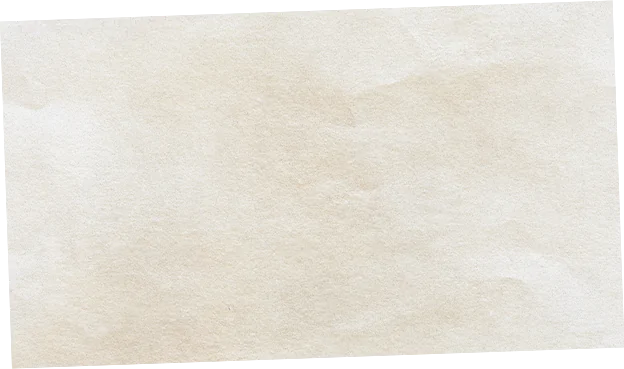
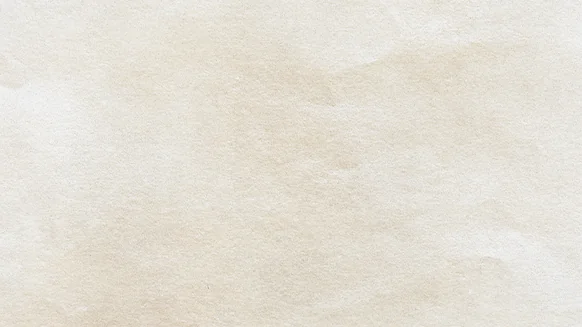
fix: the paper fills its whole sheet, without pale strips along the edges
The original's paper texture is a slightly tilted sheet; its see-through
corners showed as cream wedges at the edges of every page and dialog.
The asset converter now keeps only the paper's fully opaque inside for
textures stretched over whole panels.

diff --git a/tools/converter/src/assets.ts b/tools/converter/src/assets.ts
@@ -52,6 +52,11 @@ const APP_ICON_SIZES = [72, 96, 128, 144, 152, 180, 192, 384, 512];
 
 /** UI art folders that are not used (animation frames, Unity-specific widgets). */
 const SKIP_UI = /^(ScreenTransitions|CollapseAssets|SettingPanel|FakeLight)\//;
+/**
+ * Textures the app stretches over whole panels. The paper is a slightly tilted sheet: its
+ * see-through corners would show as pale wedges at the panel's edges, so only its inside is kept.
+ */
+const FILL_UI = /^PopupPanels\/WeatheredPaper\.png$/;
 
 function slug(path: string): string {
   return path
@@ -75,17 +80,26 @@ function convert(input: string, output: string, args: string[]): void {
 
 class MissingSource extends Error {}
 
-/**
- * Bounding box of the non-transparent pixels. Unity textures are often padded to a power of
- * two with transparent space (e.g. a 2048×2048 file whose picture fills the lower-left part).
- */
-function opaqueBounds(input: string): { x: number; y: number; w: number; h: number } | undefined {
+/** The image's pixels as RGBA, or undefined if ffmpeg can't read it. */
+function rgba(input: string): { px: Buffer; width: number; height: number } | undefined {
   const probe = spawnSync('ffprobe', ['-v', 'error', '-select_streams', 'v:0', '-show_entries', 'stream=width,height', '-of', 'csv=p=0', input], { encoding: 'utf8' });
   const [width, height] = probe.stdout.trim().split(',').map(Number);
   if (!width || !height) return undefined;
   const raw = spawnSync('ffmpeg', ['-v', 'error', '-i', input, '-f', 'rawvideo', '-pix_fmt', 'rgba', '-'], { maxBuffer: width * height * 4 + 1024 });
   const px = raw.stdout as Buffer;
-  if (px.length < width * height * 4) return undefined;
+  return px.length < width * height * 4 ? undefined : { px, width, height };
+}
+
+type Box = { x: number; y: number; w: number; h: number };
+
+/**
+ * Bounding box of the non-transparent pixels. Unity textures are often padded to a power of
+ * two with transparent space (e.g. a 2048×2048 file whose picture fills the lower-left part).
+ */
+function opaqueBounds(input: string): Box | undefined {
+  const img = rgba(input);
+  if (!img) return undefined;
+  const { px, width, height } = img;
   let x0 = width, y0 = height, x1 = -1, y1 = -1;
   for (let y = 0; y < height; y++) {
     for (let x = 0; x < width; x++) {
@@ -101,9 +115,33 @@ function opaqueBounds(input: string): { x: number; y: number; w: number; h: numb
   return { x: x0, y: y0, w: x1 - x0 + 1, h: y1 - y0 + 1 };
 }
 
-const image = (input: string, output: string) => {
+/**
+ * A rectangle with no see-through pixels: starting from the picture's bounds, the edges move
+ * inwards until each is fully opaque.
+ */
+function opaqueInterior(input: string): Box | undefined {
+  const img = rgba(input);
+  if (!img) return undefined;
+  const { px, width } = img;
+  const solid = (x: number, y: number) => px[(y * width + x) * 4 + 3]! >= 250;
+  const bounds = opaqueBounds(input) ?? { x: 0, y: 0, w: width, h: img.height };
+  let x0 = bounds.x, y0 = bounds.y, x1 = bounds.x + bounds.w - 1, y1 = bounds.y + bounds.h - 1;
+  while (x0 < x1 && y0 < y1) {
+    const row = (y: number) => { for (let x = x0; x <= x1; x++) if (!solid(x, y)) return false; return true; };
+    const col = (x: number) => { for (let y = y0; y <= y1; y++) if (!solid(x, y)) return false; return true; };
+    const [top, bottom, left, right] = [row(y0), row(y1), col(x0), col(x1)];
+    if (top && bottom && left && right) return { x: x0, y: y0, w: x1 - x0 + 1, h: y1 - y0 + 1 };
+    if (!top) y0++;
+    if (!bottom) y1--;
+    if (!left) x0++;
+    if (!right) x1--;
+  }
+  return undefined;
+}
+
+const image = (input: string, output: string, fill = false) => {
   if (existsSync(output) && existsSync(input) && statSync(output).mtimeMs >= statSync(input).mtimeMs) return;
-  const crop = existsSync(input) ? opaqueBounds(input) : undefined;
+  const crop = existsSync(input) ? (fill ? opaqueInterior : opaqueBounds)(input) : undefined;
   convert(input, output, [...(crop ? ['-vf', `crop=${crop.w}:${crop.h}:${crop.x}:${crop.y}`] : []), '-c:v', 'libwebp', '-quality', '85', '-compression_level', '6']);
 };
 /** Music and effects: VBR stereo. Speech: 48 kbit/s mono is plenty and a third of the size. */
@@ -152,7 +190,7 @@ export function extractAssets(assets: string, out: string, voiceOver: ScenarioEx
     const key = slug(f);
     if (m.ui[key]) continue; // duplicates like "bracket-left (1).png"
     const file = join(out, 'ui', `${key}.webp`);
-    if (tryConvert(() => image(join(uiDir, f), file))) m.ui[key] = rel(file);
+    if (tryConvert(() => image(join(uiDir, f), file, FILL_UI.test(f)))) m.ui[key] = rel(file);
   }
 
   // App icon (browser tab, home screen) from the original's 1024 px icon.
